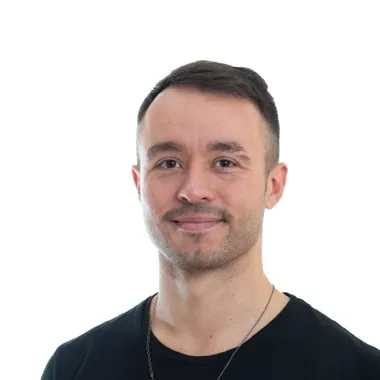
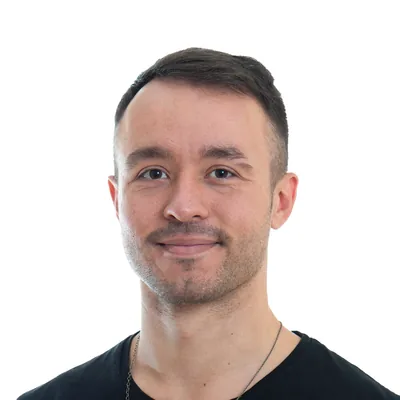
Keep canvas labels on screen, recentre Jon's portrait, warm grey, add 404 page

Changed region(s): [[0.0289, 0.1158, 1.0, 1.0], [0.5211, 0.8684, 0.5789, 0.8974]]

diff --git a/public/index.html b/public/index.html
@@ -42,7 +42,7 @@
 <link href="https://fonts.googleapis.com/css2?family=Geist+Mono:wght@400;500&family=Host+Grotesk:wght@400;500&family=Instrument+Serif:ital@0;1&display=swap" rel="stylesheet">
 <style>
   :root {
-    --paper: #EFEDE6; --ink: #2C1600; --muted: #5E6B70; --accent: #D8401F; --stain: #DCD2BC;
+    --paper: #EFEDE6; --ink: #2C1600; --muted: #6E6253; --accent: #D8401F; --stain: #DCD2BC;
     --serif: "Instrument Serif", "Times New Roman", serif;
     --sans: "Host Grotesk", "Helvetica Neue", Arial, sans-serif;
     --mono: "Geist Mono", ui-monospace, Menlo, monospace;
@@ -319,7 +319,7 @@
[1 lines of base64/hex data omitted]
 
 <aside id="closing" aria-label="Author"><div class="in">
[2 lines of base64/hex data omitted]
   <div class="nm2">Jón Tomas<br>Magnússon Amorós</div>
   <div class="af">Wernberg &amp; Filbee-Dexter lab<br>UWA School of Biological Sciences<br>Oceans Institute</div>
 </div></aside>
@@ -472,11 +472,16 @@
     const a = o.alpha ?? 1; if (a < .02) return;
     ctx.save(); ctx.globalAlpha = a; ctx.font = o.font || `500 ${G.mob ? 9.5 : 11}px "Geist Mono", ui-monospace, monospace`;
     ctx.textAlign = o.align || 'left'; ctx.textBaseline = 'middle'; ctx.lineJoin = 'round'; ctx.lineWidth = 5; ctx.strokeStyle = PAPER; ctx.fillStyle = o.color || `rgb(${INK})`;
+    // keep the whole text block inside the screen margins, whatever the window shape
+    const w = Math.max(...lines.map(ln => ctx.measureText(ln).width)), M = edge(), al = ctx.textAlign;
+    const left = al === 'right' ? x - w : al === 'center' ? x - w / 2 : x;
+    x += Math.max(0, M - left) - Math.max(0, left + w - (W - M));
     lines.forEach((ln, i) => { const yy = y + i * (o.lh || 14); if (o.halo !== false) ctx.strokeText(ln, x, yy); ctx.fillText(ln, x, yy); });
     ctx.restore();
   }
+  const edge = () => G.mob ? 16 : 40;
   function leader(x0, y0, x1, y1, a, color) {
-    if (a < .02) return; ctx.save(); ctx.globalAlpha = a; ctx.strokeStyle = ctx.fillStyle = color || `rgb(${INK})`; ctx.lineWidth = 1;
+    if (a < .02) return; x1 = clamp(x1, edge(), W - edge()); ctx.save(); ctx.globalAlpha = a; ctx.strokeStyle = ctx.fillStyle = color || `rgb(${INK})`; ctx.lineWidth = 1;
     ctx.beginPath(); ctx.arc(x0, y0, 2.4, 0, 7); ctx.fill(); ctx.beginPath(); ctx.moveTo(x0, y0); ctx.lineTo(x1, y1); ctx.stroke(); ctx.restore();
   }
   function urchin(x, y, s, seed, alpha) {

diff --git a/public/404.html b/public/404.html
@@ -1,0 +1,99 @@
+<!doctype html>
+<html lang="en">
+<head>
+<meta charset="utf-8">
+<meta name="viewport" content="width=device-width, initial-scale=1, viewport-fit=cover">
+<title>Grazed away · A spiky situation</title>
+<meta name="robots" content="noindex">
+<meta name="theme-color" content="#EFEDE6">
+<link rel="icon" href="/fav/u0.png" sizes="64x64" type="image/png">
+<link rel="apple-touch-icon" href="/apple-touch-icon.png">
+<link rel="preconnect" href="https://fonts.googleapis.com">
+<link rel="preconnect" href="https://fonts.gstatic.com" crossorigin>
+<link href="https://fonts.googleapis.com/css2?family=Geist+Mono:wght@400;500&family=Host+Grotesk:wght@400;500&family=Instrument+Serif:ital@0;1&display=swap" rel="stylesheet">
+<style>
+  :root { --paper: #EFEDE6; --ink: #2C1600; --muted: #6E6253; --accent: #D8401F;
+          --serif: "Instrument Serif", Georgia, serif; --sans: "Host Grotesk", system-ui, sans-serif; --mono: "Geist Mono", ui-monospace, monospace; }
+  * { box-sizing: border-box; }
+  html, body { margin: 0; height: 100%; background: var(--paper); color: var(--ink); color-scheme: light; }
+  body { font-family: var(--sans); -webkit-font-smoothing: antialiased; overflow: hidden; }
+  canvas { position: fixed; inset: 0; width: 100%; height: 100%; }
+  main { position: relative; z-index: 1; min-height: 100%; display: grid; place-items: center; text-align: center;
+         padding: max(24px, env(safe-area-inset-top)) max(16px, env(safe-area-inset-right)) max(24px, env(safe-area-inset-bottom)) max(16px, env(safe-area-inset-left)); }
+  .wrap { display: flex; flex-direction: column; align-items: center; }
+  .code { position: relative; display: grid; place-items: center; width: min(62vmin, 420px); aspect-ratio: 1; }
+  .code b { font: 400 clamp(120px, 38vmin, 300px)/.8 var(--serif); letter-spacing: -.04em; position: relative; z-index: 1; }
+  .code b i { font-style: normal; display: inline-block; width: .52em; }
+  .code img { position: absolute; width: 34%; height: auto; aspect-ratio: 1; left: 50%; top: 50%; translate: -50% -50%; z-index: 2; animation: spin 40s linear infinite; filter: saturate(.85); }
+  .tag { font: 500 11px/1 var(--mono); letter-spacing: .14em; text-transform: uppercase; color: var(--accent); margin: 6px 0 14px; opacity: 0; animation: up .9s .5s cubic-bezier(.2,.7,.2,1) forwards; }
+  h1 { font: 400 clamp(30px, 6vmin, 46px)/1.04 var(--serif); margin: 0; opacity: 0; animation: up .9s .65s cubic-bezier(.2,.7,.2,1) forwards; }
+  h1 em { font-style: italic; }
+  a { margin-top: 28px; font: 500 11px/1 var(--mono); letter-spacing: .14em; text-transform: uppercase; color: var(--ink); text-decoration: none;
+      padding: 13px 18px; border: 1px solid rgba(44,22,0,.45); border-radius: 999px; transition: background .25s, color .25s, border-color .25s;
+      opacity: 0; animation: up .9s .8s cubic-bezier(.2,.7,.2,1) forwards; }
+  a:hover, a:focus-visible { background: var(--ink); color: var(--paper); border-color: var(--ink); outline: none; }
+  .corner { position: fixed; z-index: 1; top: max(20px, env(safe-area-inset-top)); left: max(20px, env(safe-area-inset-left)); font: 500 11px/1.5 var(--mono); letter-spacing: .14em; text-transform: uppercase; }
+  .corner span { display: block; color: var(--muted); letter-spacing: .08em; }
+  @keyframes spin { to { rotate: 360deg; } }
+  @keyframes up { from { opacity: 0; transform: translateY(10px); } to { opacity: 1; transform: none; } }
+  @media (prefers-reduced-motion: reduce) { .code img { animation: none; } .tag, h1, a { animation-duration: .01s; } }
+</style>
+</head>
+<body>
+<canvas id="c" aria-hidden="true"></canvas>
+<div class="corner">A spiky situation<span>Error 404</span></div>
+<main>
+  <div class="wrap">
+    <div class="code" aria-label="404"><b>4<i></i>4</b><img src="/img/urchin.webp" alt="" width="820" height="820"></div>
+    <p class="tag">Urchin barren</p>
+    <h1>This page has been <em>grazed away</em>.</h1>
+    <a href="/">Back to the kelp forest</a>
+  </div>
+</main>
+<script>
+(() => {
+  // contour lines of a seabed with a bare hollow where the urchin sits (marching squares)
+  const cvs = document.getElementById('c'), ctx = cvs.getContext('2d');
+  const RM = matchMedia('(prefers-reduced-motion: reduce)').matches;
+  let W, H, cell, cols, rows, v, dpr, C = { x: 0, y: 0, r: 100 };
+  const img = document.querySelector('.code img');
+  function size() {
+    W = innerWidth; H = innerHeight; dpr = Math.min(devicePixelRatio || 1, 2);
+    cvs.width = W * dpr; cvs.height = H * dpr; cell = W < 700 ? 6 : 8;
+    const b = img.getBoundingClientRect(); C = { x: b.left + b.width / 2, y: b.top + b.height / 2, r: Math.max(60, img.offsetWidth * 1.15) };
+    cols = Math.ceil(W / cell) + 1; rows = Math.ceil(H / cell) + 1; v = new Float32Array(cols * rows);
+  }
+  function field(t) {
+    const cx = C.x, cy = C.y, R = C.r, s = 1 / Math.max(W, H);
+    for (let j = 0; j < rows; j++) for (let i = 0; i < cols; i++) {
+      const x = i * cell, y = j * cell, nx = x * s * 6, ny = y * s * 6, dx = (x - cx) / R, dy = (y - cy) / R, d2 = dx * dx + dy * dy;
+      v[j * cols + i] = .14 * Math.sin(1.7 * nx + .6 * ny + t * .05) + .1 * Math.sin(-1.2 * nx + 2.3 * ny + 2 - t * .04)
+                      + .06 * Math.sin(3.1 * nx + 2.7 * ny + t * .03) - .9 * Math.exp(-d2 * .55) * (1 + .03 * Math.sin(t * .4));
+    }
+  }
+  function draw(t) {
+    field(t);
+    ctx.setTransform(dpr, 0, 0, dpr, 0, 0); ctx.clearRect(0, 0, W, H); ctx.lineJoin = 'round';
+    for (let k = -14; k <= 8; k++) {
+      const lv = k * .06, p = new Path2D();
+      for (let j = 0; j < rows - 1; j++) for (let i = 0; i < cols - 1; i++) {
+        const a = v[j * cols + i], b = v[j * cols + i + 1], c = v[(j + 1) * cols + i + 1], d = v[(j + 1) * cols + i];
+        const idx = (a > lv) | (b > lv) << 1 | (c > lv) << 2 | (d > lv) << 3; if (idx === 0 || idx === 15) continue;
+        const x = i * cell, y = j * cell, f = (p0, p1) => (lv - p0) / (p1 - p0);
+        const T = [x + cell * f(a, b), y], Rr = [x + cell, y + cell * f(b, c)], B = [x + cell * f(d, c), y + cell], L = [x, y + cell * f(a, d)];
+        const seg = (u, w) => { p.moveTo(u[0], u[1]); p.lineTo(w[0], w[1]); };
+        switch (idx) { case 1: case 14: seg(L, T); break; case 2: case 13: seg(T, Rr); break; case 3: case 12: seg(L, Rr); break; case 4: case 11: seg(Rr, B); break;
+          case 5: seg(L, T); seg(Rr, B); break; case 6: case 9: seg(T, B); break; case 7: case 8: seg(L, B); break; case 10: seg(T, Rr); seg(L, B); break; }
+      }
+      const inner = k <= -9;
+      ctx.strokeStyle = inner ? `rgba(216,64,31,${k % 2 ? .22 : .5})` : `rgba(44,22,0,${k % 4 === 0 ? .26 : .11})`;
+      ctx.lineWidth = inner && k === -9 ? 1.2 : 1; ctx.stroke(p);
+    }
+  }
+  size(); addEventListener('resize', () => { size(); if (RM) draw(0); });
+  if (document.fonts) document.fonts.ready.then(() => { size(); if (RM) draw(0); });
+  if (RM) draw(0); else { const loop = ms => { draw(ms / 1000); requestAnimationFrame(loop); }; requestAnimationFrame(loop); }
+})();
+</script>
+</body>
+</html>

diff --git a/src/index.src.html b/src/index.src.html
@@ -42,7 +42,7 @@
 <link href="https://fonts.googleapis.com/css2?family=Geist+Mono:wght@400;500&family=Host+Grotesk:wght@400;500&family=Instrument+Serif:ital@0;1&display=swap" rel="stylesheet">
 <style>
   :root {
-    --paper: #EFEDE6; --ink: #2C1600; --muted: #5E6B70; --accent: #D8401F; --stain: #DCD2BC;
+    --paper: #EFEDE6; --ink: #2C1600; --muted: #6E6253; --accent: #D8401F; --stain: #DCD2BC;
     --serif: "Instrument Serif", "Times New Roman", serif;
     --sans: "Host Grotesk", "Helvetica Neue", Arial, sans-serif;
     --mono: "Geist Mono", ui-monospace, Menlo, monospace;
@@ -472,11 +472,16 @@
     const a = o.alpha ?? 1; if (a < .02) return;
     ctx.save(); ctx.globalAlpha = a; ctx.font = o.font || `500 ${G.mob ? 9.5 : 11}px "Geist Mono", ui-monospace, monospace`;
     ctx.textAlign = o.align || 'left'; ctx.textBaseline = 'middle'; ctx.lineJoin = 'round'; ctx.lineWidth = 5; ctx.strokeStyle = PAPER; ctx.fillStyle = o.color || `rgb(${INK})`;
+    // keep the whole text block inside the screen margins, whatever the window shape
+    const w = Math.max(...lines.map(ln => ctx.measureText(ln).width)), M = edge(), al = ctx.textAlign;
+    const left = al === 'right' ? x - w : al === 'center' ? x - w / 2 : x;
+    x += Math.max(0, M - left) - Math.max(0, left + w - (W - M));
     lines.forEach((ln, i) => { const yy = y + i * (o.lh || 14); if (o.halo !== false) ctx.strokeText(ln, x, yy); ctx.fillText(ln, x, yy); });
     ctx.restore();
   }
+  const edge = () => G.mob ? 16 : 40;
   function leader(x0, y0, x1, y1, a, color) {
-    if (a < .02) return; ctx.save(); ctx.globalAlpha = a; ctx.strokeStyle = ctx.fillStyle = color || `rgb(${INK})`; ctx.lineWidth = 1;
+    if (a < .02) return; x1 = clamp(x1, edge(), W - edge()); ctx.save(); ctx.globalAlpha = a; ctx.strokeStyle = ctx.fillStyle = color || `rgb(${INK})`; ctx.lineWidth = 1;
     ctx.beginPath(); ctx.arc(x0, y0, 2.4, 0, 7); ctx.fill(); ctx.beginPath(); ctx.moveTo(x0, y0); ctx.lineTo(x1, y1); ctx.stroke(); ctx.restore();
   }
   function urchin(x, y, s, seed, alpha) {
